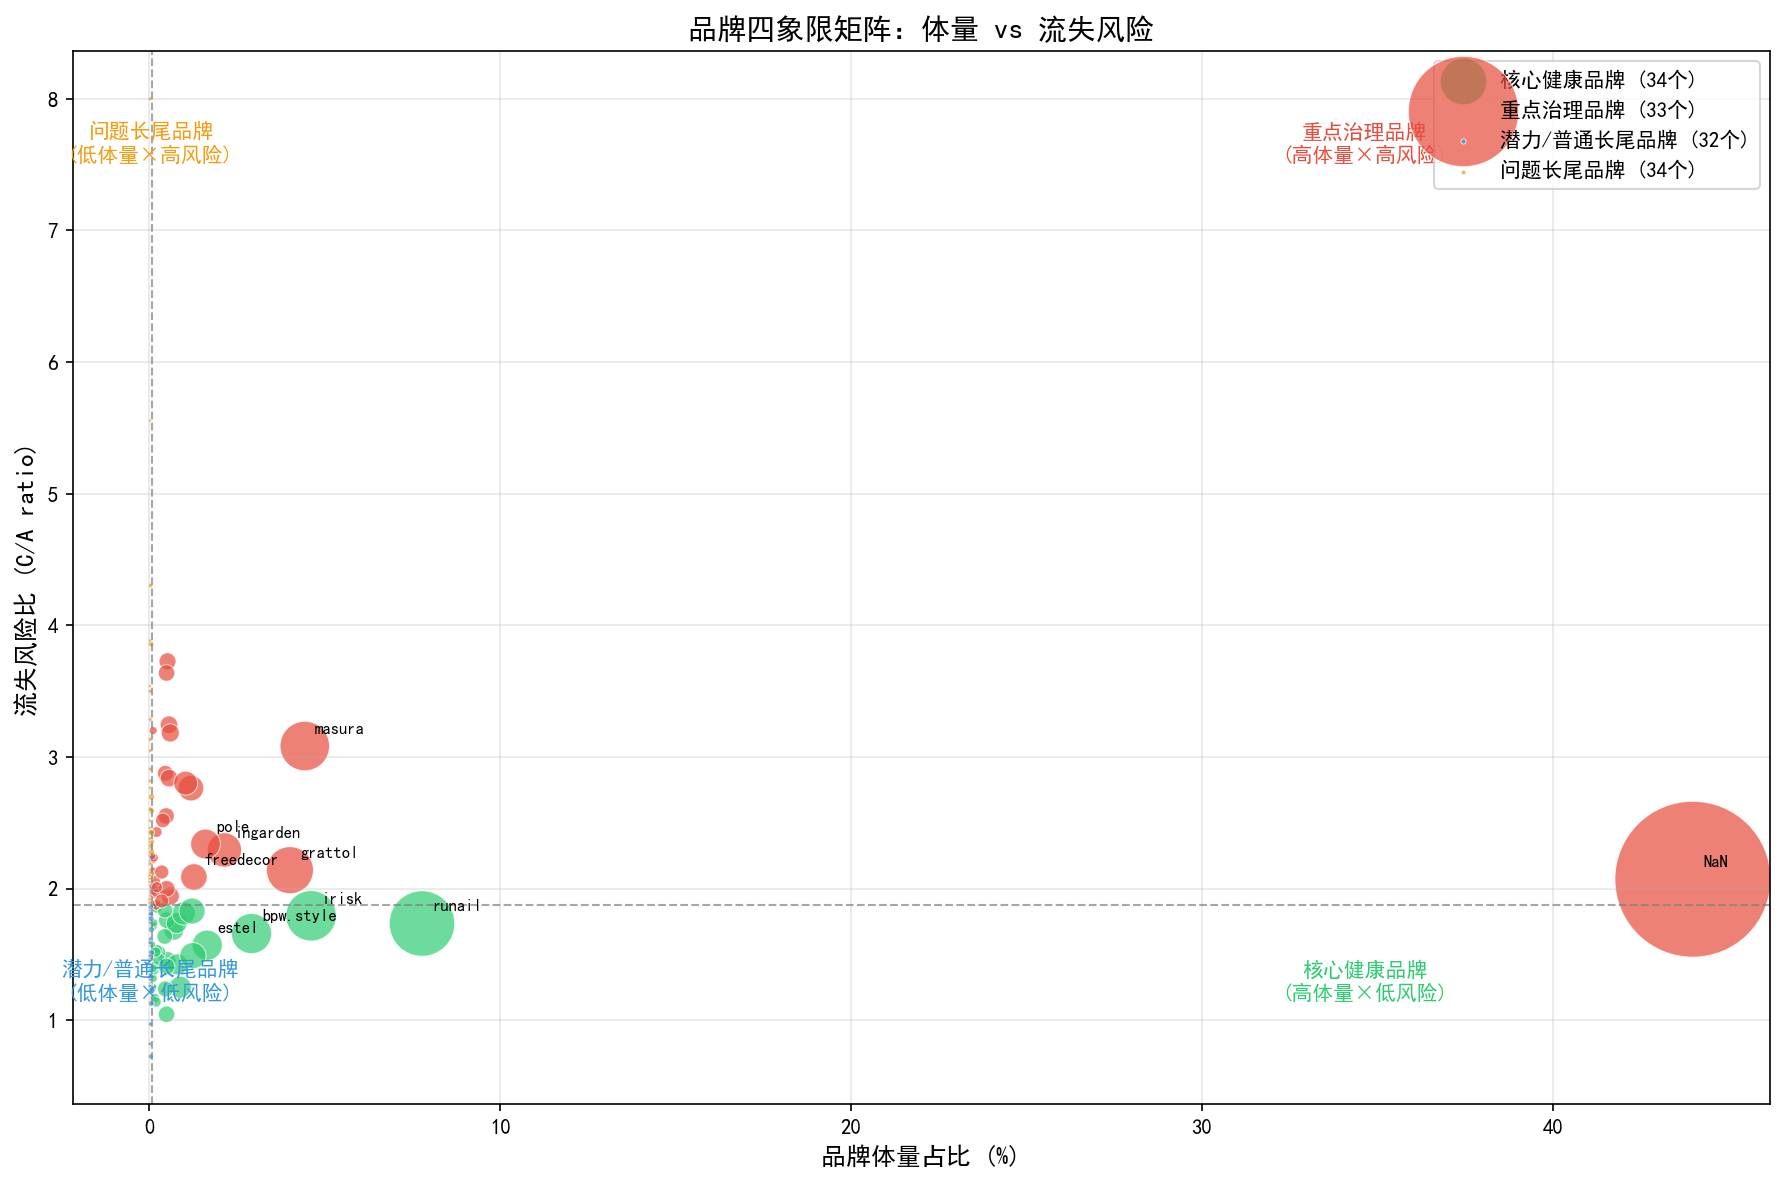
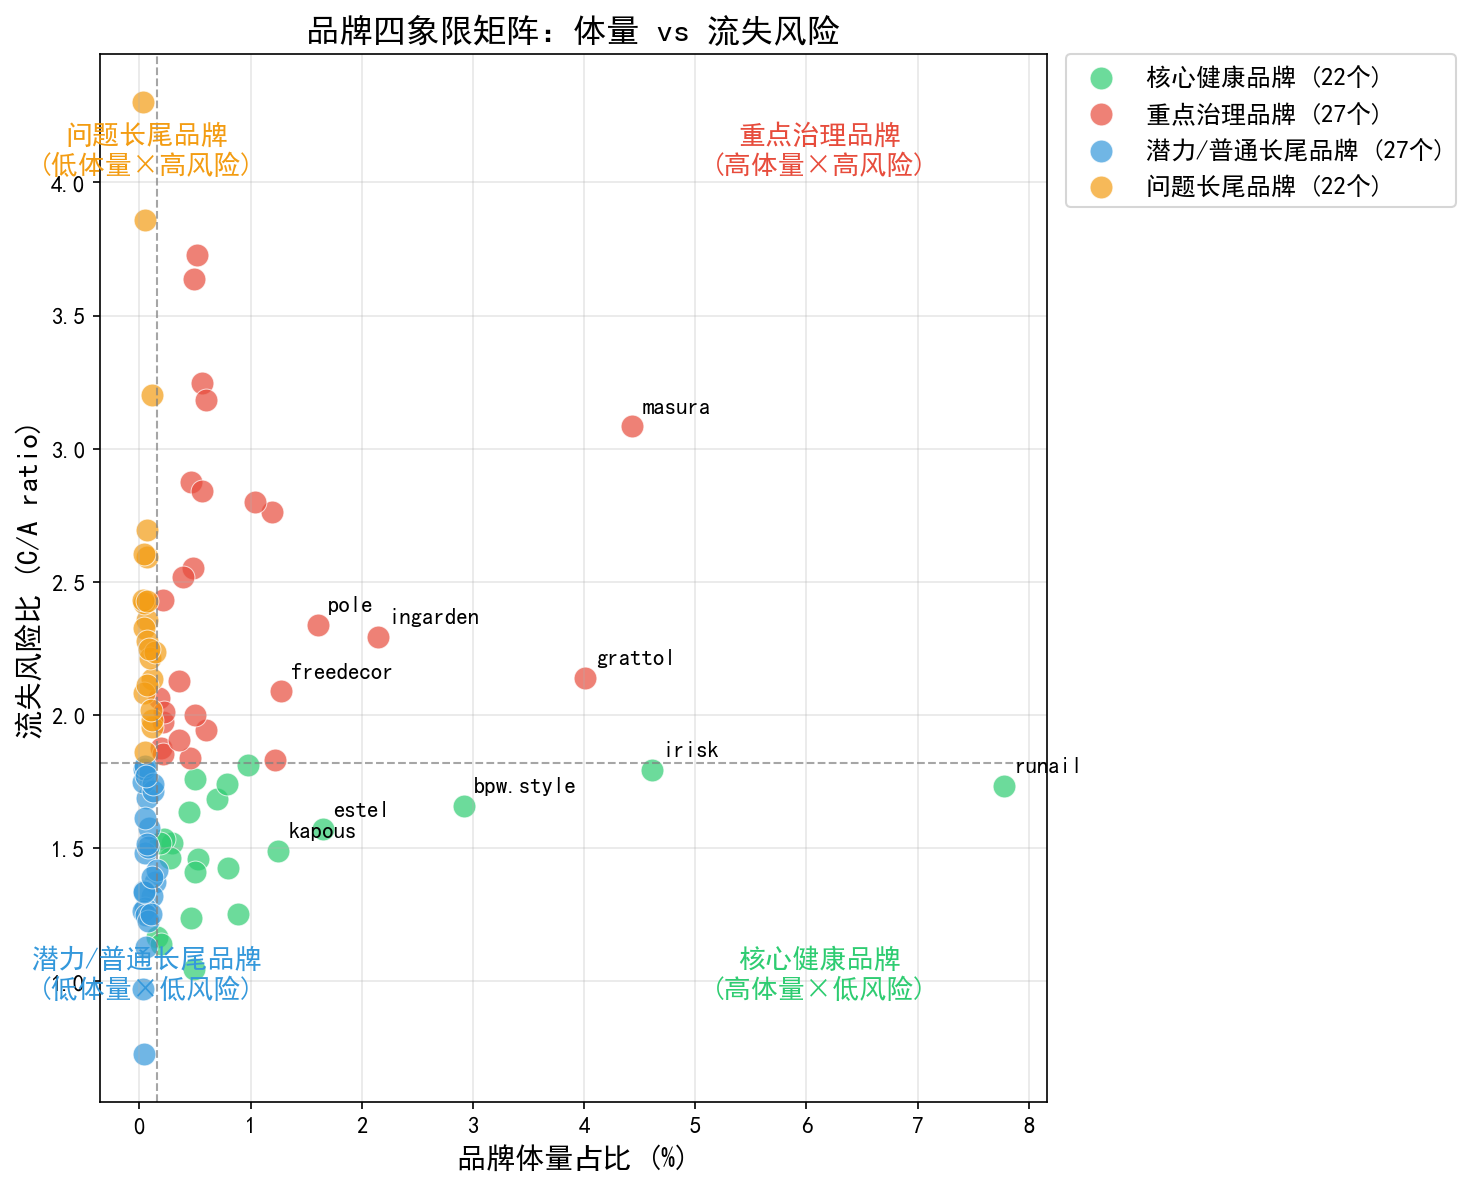
6/11逻辑回归结束4类品牌

diff --git a/worklog.md b/worklog.md
@@ -227,3 +227,18 @@
   - 按 brand_share 高低 × loss_rate/risk_ratio 高低分成四类
   - 对应实际业务场景：品牌优先级排序、货盘优化、流量分配、加购挽回策略、价格策略
   - 项目下一阶段标题：**品牌经营策略分析：从流失识别到品牌分层运营**
+
+## 6/11 — 10 品牌四象限矩阵
+
+- 做了什么：用 A/C 明确结果样本，按品牌聚合 A_count、C_count、c_to_a_ratio、brand_share_in_clear_outcome，用中位数切分四象限
+- 结果：
+  - 合格品牌 98 个（排除 Unknown Brand 1个 + 样本不足 124个 + 无购买记录 10个）
+  - 核心健康品牌 22 个（高体量×低风险）：runail, irisk, bpw.style
+  - 重点治理品牌 27 个（高体量×高风险）：masura, grattol, ingarden
+  - 潜力/普通长尾品牌 27 个（低体量×低风险）：kaaral, benovy, skinlite
+  - 问题长尾品牌 22 个（低体量×高风险）：shik, beauty-free, ecolab
+- 解读：
+  - 核心健康品牌：给流量就能转化，是 GMV 确定性来源
+  - 重点治理品牌：体量大但流失严重，需要加购挽回弹窗、限时折扣等干预手段
+  - 潜力长尾：转化健康但量小，可试探性增加曝光观察能否放量
+  - 问题长尾：量小且流失高，优先级最低，考虑降低推荐权重
